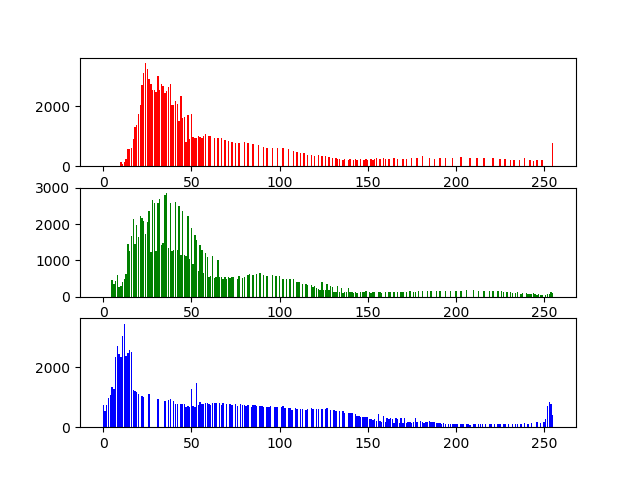
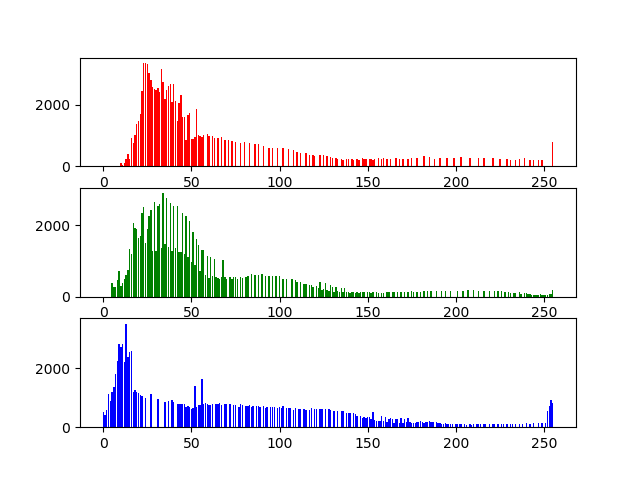
histogram matching done, second version

diff --git a/hw1.py b/hw1.py
@@ -129,7 +129,52 @@ class UserInterface(QMainWindow):
             g2 = img2[:,:,1];
             b2 = img2[:,:,2];
 
-            oldshape = r.shape
+            rMatched = self.histMatching(r,r2)
+            gMatched = self.histMatching(g,g2)
+            bMatched = self.histMatching(b,b2)
+
+            newImage = np.zeros((img.shape[0],img.shape[1],3), np.float64)
+            newImage[..., 0] = rMatched * 255
+            newImage[..., 1] = gMatched * 255
+            newImage[..., 2] = bMatched * 255
+
+            plt.clf()
+            plt.imshow(newImage)
+            plt.savefig("resultPic.png")
+
+            l2 = QLabel()
+            l2.setPixmap(QPixmap("resultPic.png"))
+            self.vbox3.addWidget(l2)
+
+            r = newImage[:,:,0];
+            g = newImage[:,:,1];
+            b = newImage[:,:,2];
+
+            hist = self.calcHist2(r)
+
+            x = np.arange(0,256)
+            plt.subplot(3,1,1)
+            plt.bar(x,hist,color="red",align="center")
+
+            hist = self.calcHist2(g)
+
+            x = np.arange(0,256)
+            plt.subplot(3,1,2)
+            plt.bar(x,hist,color="green",align="center")
+
+            hist = self.calcHist2(b)
+
+            x = np.arange(0,256)
+            plt.subplot(3,1,3)
+            plt.bar(x,hist,color="blue",align="center")
+
+            plt.savefig("histResult.png")
+
+            l2 = QLabel()
+            l2.setPixmap(QPixmap("histResult.png"))
+            self.vbox3.addWidget(l2)
+
+            '''oldshape = r.shape
 
             s_values, bin_idx, s_counts = np.unique(r, return_inverse=True,return_counts=True)
             t_values, t_counts = np.unique(r2, return_counts=True)
@@ -221,7 +266,49 @@ class UserInterface(QMainWindow):
 
             l2 = QLabel()
             l2.setPixmap(QPixmap("histResult.png"))
-            self.vbox3.addWidget(l2)
+            self.vbox3.addWidget(l2)'''
+
+            ##################################################################
+
+            '''height = r.shape[0]
+            width = r.shape[1]
+            pixels = width * height
+
+            height_ref = r2.shape[0]
+            width_ref = r2.shape[1]
+            pixels_ref = width_ref * height_ref
+
+            hist = self.calcHist(r)
+            hist_ref = self.calcHist(r2)
+
+            cum_hist = self.calcCDF(hist)
+            cum_hist_ref = self.calcCDF(hist_ref)
+
+            prob_cum_hist = cum_hist / pixels
+            prob_cum_hist_ref = cum_hist_ref / pixels_ref
+
+            K = 256
+            new_values = np.zeros((K))
+
+            for a in np.arange(K):
+                j = K - 1
+                while True:
+                    new_values[a] = j
+                    j = j - 1
+                    if j < 0 or prob_cum_hist[a] > prob_cum_hist_ref[j]:
+                        break
+
+            for i in np.arange(height):
+                for j in np.arange(width):
+                    a = r[i,j]
+                    b = new_values[int(round(a*255,0))]
+                    r[i,j] = b
+
+            plt.clf()
+            plt.imshow(r)
+            plt.show()'''
+
+            ###########################
 
             '''row,col=r.shape #height,witdh
             hist = np.zeros((256), np.uint64)
@@ -313,7 +400,63 @@ class UserInterface(QMainWindow):
             self.vbox3.addWidget(l2)'''
 
 
+    def calcHist(self,img):
+        hist = np.zeros((256), np.float64)
+        for i in range(0,img.shape[0]):
+            for j in range(0,img.shape[1]):
+                hist[int(round(img[i,j]*255,0))] += 1
+        return hist
 
+    def calcHist2(self,img):
+        hist = np.zeros((256), np.float64)
+        for i in range(0,img.shape[0]):
+            for j in range(0,img.shape[1]):
+                hist[int(round(img[i,j]/255,0))] += 1
+        return hist
+
+    def calcCDF(self, hist):
+        cdf = np.zeros((256), np.float64)
+        cdf[0] = hist[0]
+        for i in range(1,len(hist)):
+            cdf[i] = cdf[i-1] + hist[i]
+        return cdf
+
+    def histMatching(self, img, imgTarget):
+        height = img.shape[0]
+        width = img.shape[1]
+        pixels = width * height
+
+        height_ref = imgTarget.shape[0]
+        width_ref = imgTarget.shape[1]
+        pixels_ref = width_ref * height_ref
+
+        hist = self.calcHist(img)
+        hist_ref = self.calcHist(imgTarget)
+
+        cum_hist = self.calcCDF(hist)
+        cum_hist_ref = self.calcCDF(hist_ref)
+
+        prob_cum_hist = cum_hist / pixels
+        prob_cum_hist_ref = cum_hist_ref / pixels_ref
+
+        K = 256
+        new_values = np.zeros((K))
+
+        for a in np.arange(K):
+            j = K - 1
+            while True:
+                new_values[a] = j
+                j = j - 1
+                if j < 0 or prob_cum_hist[a] > prob_cum_hist_ref[j]:
+                    break
+
+        for i in np.arange(height):
+            for j in np.arange(width):
+                a = img[i,j]
+                b = new_values[int(round(a*255,0))]
+                img[i,j] = b
+
+        return img
 
     def histogramOfImage(self, fileName, type):
         # clear all plots before
